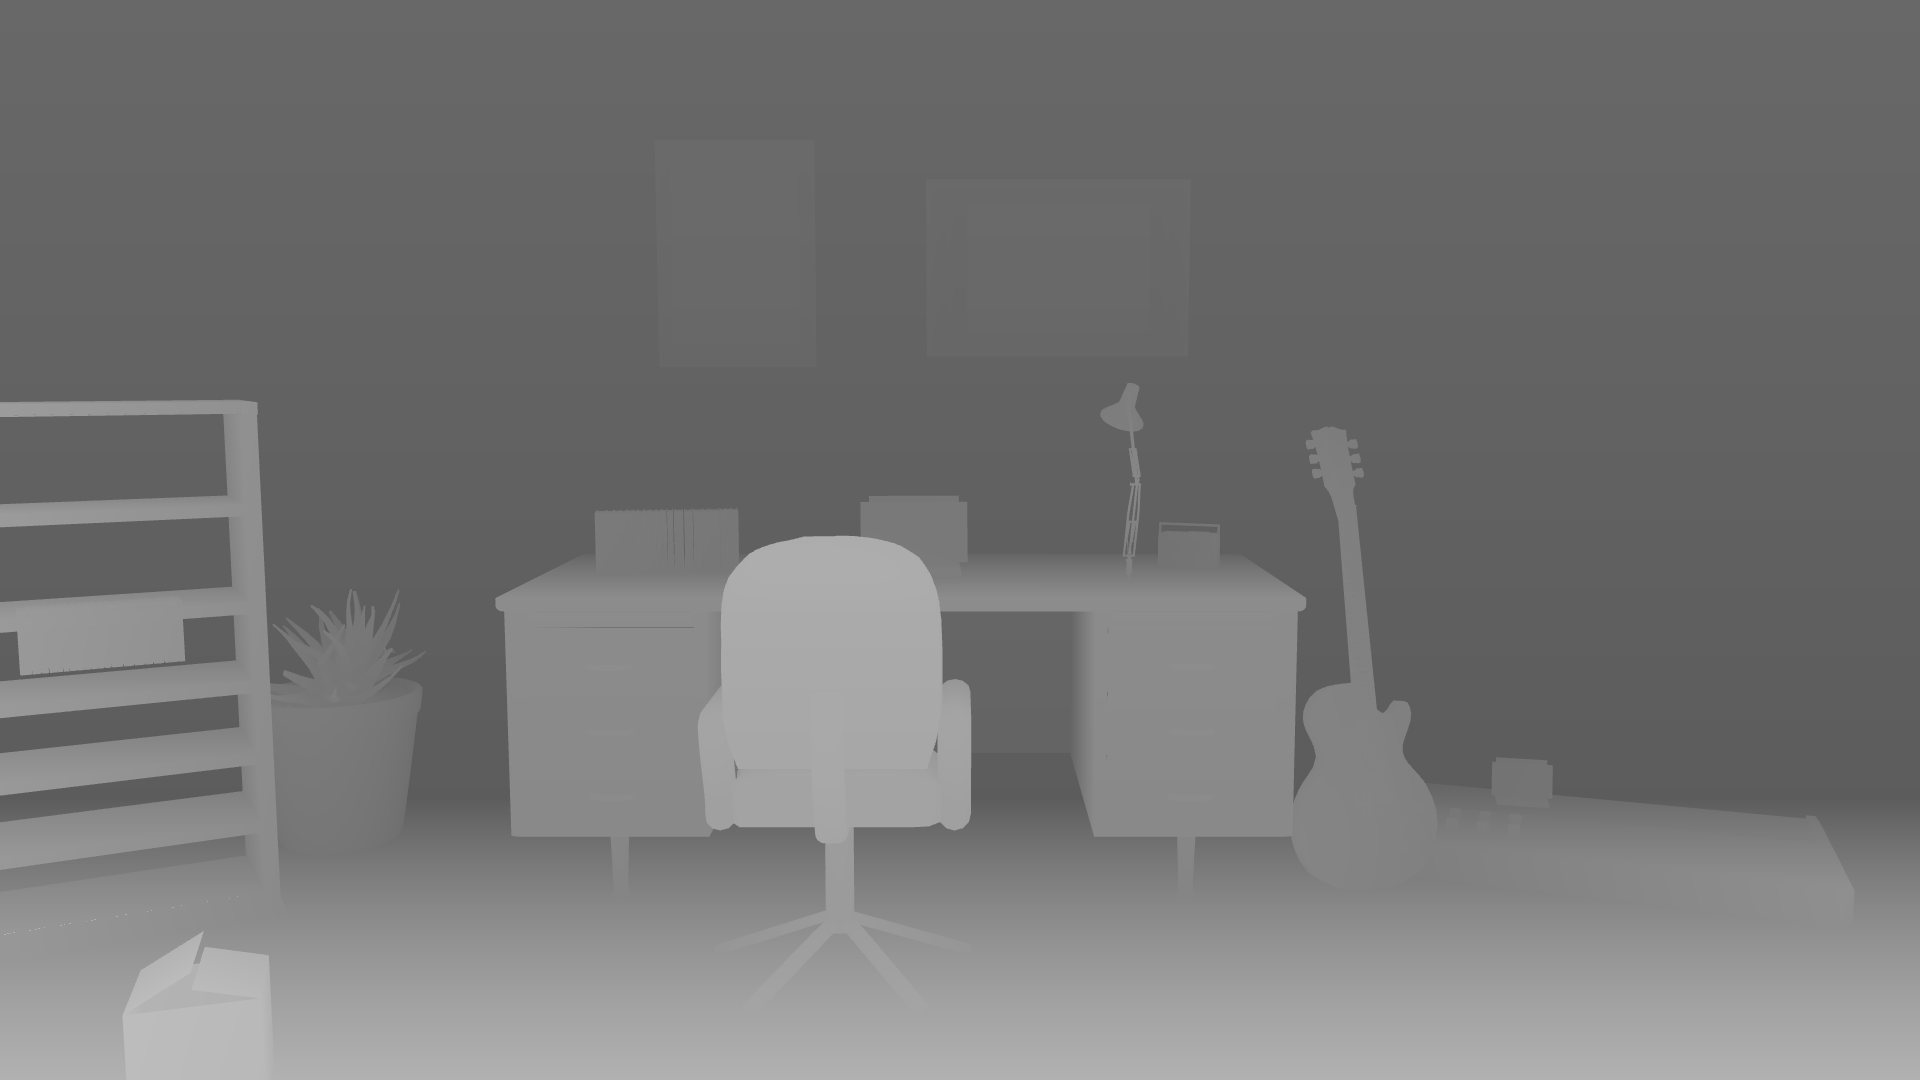
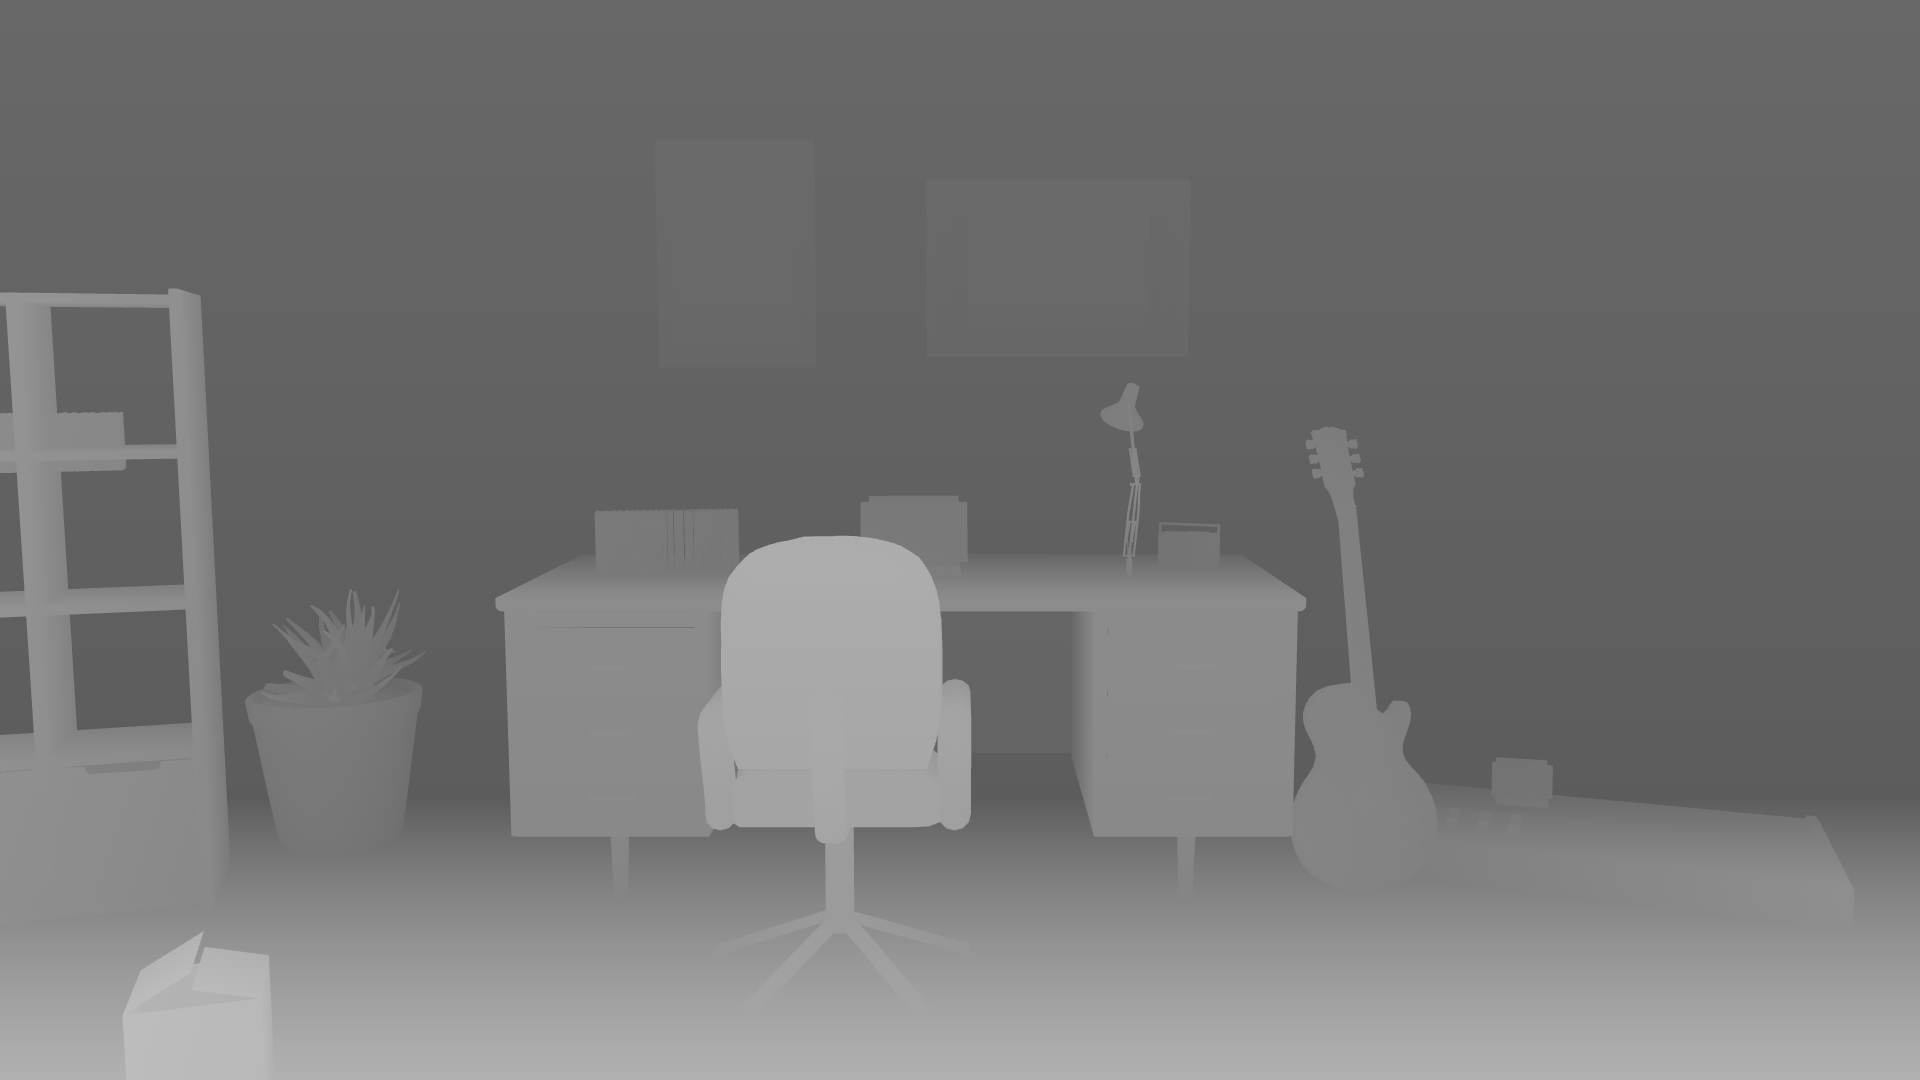
Éclaircit les murs, le parquet et recadre l'étagère Kallax

Changed region(s): [[0.0, 0.2444, 0.1562, 0.7944]]

diff --git a/src/den/DenScene.tsx b/src/den/DenScene.tsx
@@ -150,8 +150,8 @@ const LampKey = () => {
         position={[0.58, 1.26, WALL + 0.7]}
         angle={0.92}
         penumbra={0.62}
-        intensity={58}
-        color="#ffb056"
+        intensity={48}
+        color="#ffb66a"
         castShadow
         distance={9}
         decay={1.35}
@@ -229,15 +229,15 @@ const DenScene = ({ focus, setFocus, setHint, setPanel, onViewChange, bake }) =>
     <>
       <CameraRig focus={focus} frozen={bake} />
       <BakeCapture enabled={bake} />
-      <hemisphereLight args={['#ffe2b4', '#3d2416', 0.42]} />
-      <ambientLight intensity={0.34} color="#ffd8b4" />
+      <hemisphereLight args={['#fff1dc', '#4a3220', 0.55]} />
+      <ambientLight intensity={0.46} color="#fff4e4" />
       <directionalLight
-        position={[-1.4, 2.55, 2.1]}
-        intensity={0.46}
-        color="#ffc48a"
+        position={[0.25, 2.9, 3.1]}
+        intensity={0.62}
+        color="#ffe9d0"
         castShadow={false}
       />
-      <pointLight position={[0.12, 1.62, 0.85]} intensity={7.5} color="#ffd0a0" distance={8.5} decay={2} />
+      <pointLight position={[0.1, 2.05, 1.15]} intensity={9} color="#ffe4c4" distance={10} decay={2} />
       <LampKey />
 
       <RoomShell />
@@ -269,7 +269,7 @@ const DenScene = ({ focus, setFocus, setHint, setPanel, onViewChange, bake }) =>
       </Hotspot>
 
       <Hotspot hint={t.den.diploma} onOver={hint} onOut={clear} onClick={() => setPanel('education')}>
-        <FitGLB url={PH.shelf} height={1.48} position={[-2.18, 0, WALL + 0.92]} rotation={[0, -Math.PI / 2 + 0.32, 0]} />
+        <FitGLB url={PH.shelf} height={1.48} position={[-1.92, 0, WALL + 0.88]} rotation={[0, -Math.PI / 2 + 0.48, 0]} />
       </Hotspot>
 
       <Hotspot hint={t.den.about} onOver={hint} onOut={clear} onClick={() => setPanel('about')}>
@@ -305,7 +305,7 @@ const DenScene = ({ focus, setFocus, setHint, setPanel, onViewChange, bake }) =>
       </Hotspot>
 
       <Hotspot hint={t.den.lab} onOver={hint} onOut={clear} onClick={() => setPanel('experience')}>
-        <FitGLB url={PH.books} height={0.14} sit={false} position={[-2.05, 1.12, WALL + 0.78]} rotation={[0, 0.4, 0]} />
+        <FitGLB url={PH.books} height={0.14} sit={false} position={[-1.82, 1.12, WALL + 0.72]} rotation={[0, 0.35, 0]} />
       </Hotspot>
 
       <Hotspot hint={t.den.tools} onOver={hint} onOut={clear} onClick={() => onViewChange('utility')}>

diff --git a/src/den/KenneyProp.tsx b/src/den/KenneyProp.tsx
@@ -90,13 +90,11 @@ export const FramedMap = ({ url, mapUrl, height = 0.62, ...props }) => {
 };
 
 export const RoomShell = () => {
-  const [floorD, floorN, floorA, wallD, wallN, wallA] = useTexture([
+  const [floorD, floorN, wallD, wallN] = useTexture([
     '/assets/ph/wood_floor/diff.jpg',
     '/assets/ph/wood_floor/nor_gl.jpg',
-    '/assets/ph/wood_floor/arm.jpg',
     '/assets/ph/white_stucco/diff.jpg',
     '/assets/ph/white_stucco/nor_gl.jpg',
-    '/assets/ph/white_stucco/arm.jpg',
   ]);
 
   useEffect(() => {
@@ -106,23 +104,22 @@ export const RoomShell = () => {
       tex.anisotropy = 8;
       if (srgb) tex.colorSpace = THREE.SRGBColorSpace;
     };
-    prep(floorD, [3.2, 2.4], true);
-    prep(floorN, [3.2, 2.4], false);
-    prep(floorA, [3.2, 2.4], false);
-    prep(wallD, [2.2, 1.5], true);
-    prep(wallN, [2.2, 1.5], false);
-    prep(wallA, [2.2, 1.5], false);
+    prep(floorD, [6.2, 4.6], true);
+    prep(floorN, [6.2, 4.6], false);
+    prep(floorA, [6.2, 4.6], false);
+    prep(wallD, [1.6, 1.1], true);
+    prep(wallN, [1.6, 1.1], false);
+    prep(wallA, [1.6, 1.1], false);
   }, [floorD, floorN, floorA, wallD, wallN, wallA]);
 
   const wallMat = () => (
     <meshStandardMaterial
       map={wallD}
-      color="#fffdf8"
+      color="#ffffff"
       normalMap={wallN}
-      normalScale={new THREE.Vector2(0.28, 0.28)}
-      roughnessMap={wallA}
-      roughness={0.96}
-      metalness={0.01}
+      normalScale={new THREE.Vector2(0.16, 0.16)}
+      roughness={0.97}
+      metalness={0}
     />
   );
 
@@ -132,10 +129,10 @@ export const RoomShell = () => {
         <planeGeometry args={[6.2, 4.6]} />
         <meshStandardMaterial
           map={floorD}
+          color="#f6deB8"
           normalMap={floorN}
-          normalScale={new THREE.Vector2(1.2, 1.2)}
-          roughnessMap={floorA}
-          roughness={0.68}
+          normalScale={new THREE.Vector2(1.6, 1.6)}
+          roughness={0.52}
           metalness={0.02}
         />
       </mesh>
@@ -153,7 +150,7 @@ export const RoomShell = () => {
       </mesh>
       <mesh position={[0, 2.56, -0.1]} rotation={[Math.PI / 2, 0, 0]} receiveShadow>
         <planeGeometry args={[6.2, 4.6]} />
-        <meshStandardMaterial color="#faf7f2" roughness={0.96} />
+        <meshStandardMaterial color="#fdfbf7" roughness={0.98} />
       </mesh>
     </>
   );

diff --git a/src/den/hotspots.js b/src/den/hotspots.js
@@ -1,6 +1,6 @@
 export const HOTSPOTS = [
   { id: 'maps', hint: 'maps', x: 0.28, y: 0.12, w: 0.38, h: 0.26, zoom: 0.42 },
-  { id: 'diploma', hint: 'diploma', panel: 'education', x: 0.1, y: 0.28, w: 0.12, h: 0.28, zoom: 0.5 },
+  { id: 'diploma', hint: 'diploma', panel: 'education', x: 0.1, y: 0.22, w: 0.16, h: 0.42, zoom: 0.5 },
   { id: 'laptop', hint: 'desk', panel: 'projects', x: 0.396, y: 0.366, w: 0.15, h: 0.11, zoom: 0.72 },
   { id: 'guitar', hint: 'guitar', href: 'https://samuelogulluk.github.io/lutra/', x: 0.67, y: 0.34, w: 0.11, h: 0.44, zoom: 0.48 },
   { id: 'piano', hint: 'piano', panel: 'loutone', x: 0.755, y: 0.55, w: 0.18, h: 0.22, zoom: 0.48 },
@@ -13,7 +13,7 @@ export const HOTSPOTS = [
 
 const SIZES = {
   maps: [0.38, 0.26],
-  diploma: [0.12, 0.28],
+  diploma: [0.16, 0.42],
   laptop: [0.15, 0.11],
   guitar: [0.13, 0.4],
   piano: [0.18, 0.22],

diff --git a/src/den/BakeCapture.tsx b/src/den/BakeCapture.tsx
@@ -24,14 +24,14 @@ void main() {
 
 const ANCHORS = {
   maps: [0, 1.62, -1.47],
-  diploma: [-2.18, 0.78, -0.58],
+  diploma: [-1.92, 0.78, -0.62],
   laptop: [0.04, 0.9, -1.0],
   guitar: [1.16, 0.7, -0.82],
   piano: [1.82, 0.22, -0.92],
   about: [-1.55, 0.45, -1.12],
   kit: [-0.62, 0.86, -1.08],
   mail: [0.78, 0.86, -1.14],
-  lab: [-2.05, 1.12, -0.72],
+  lab: [-1.82, 1.12, -0.78],
   tools: [-1.18, 0.2, 0.42],
 };
 
